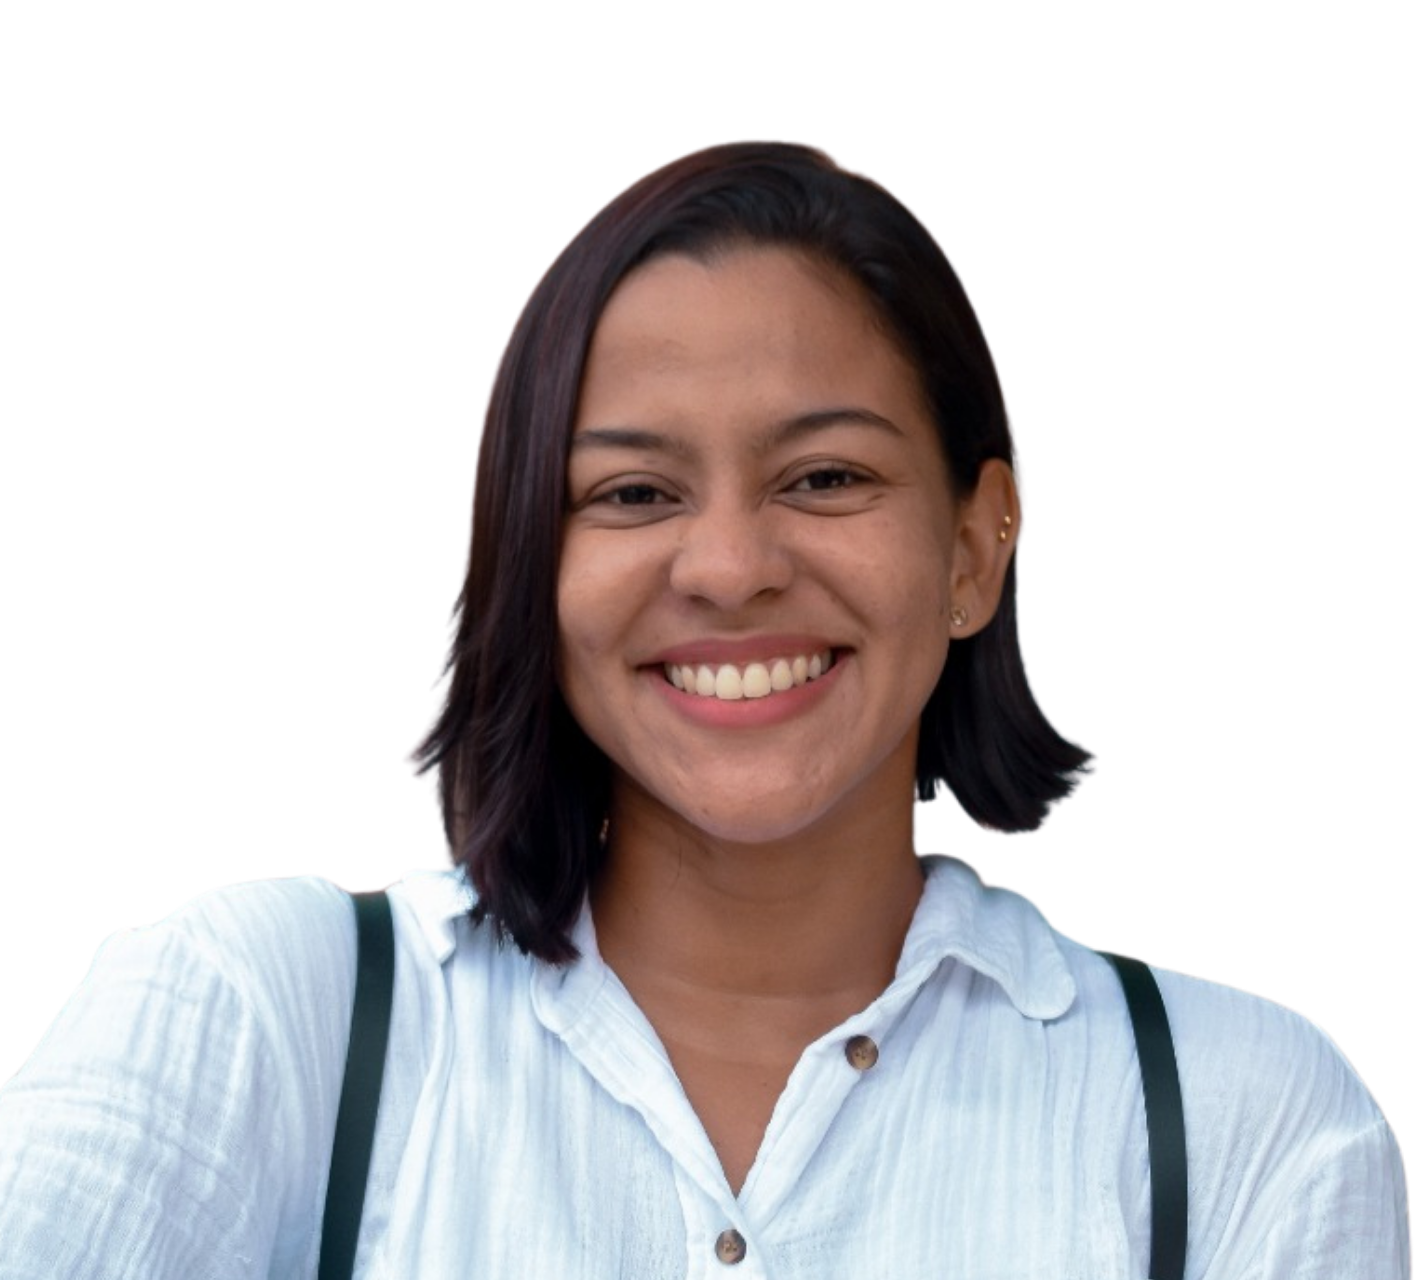
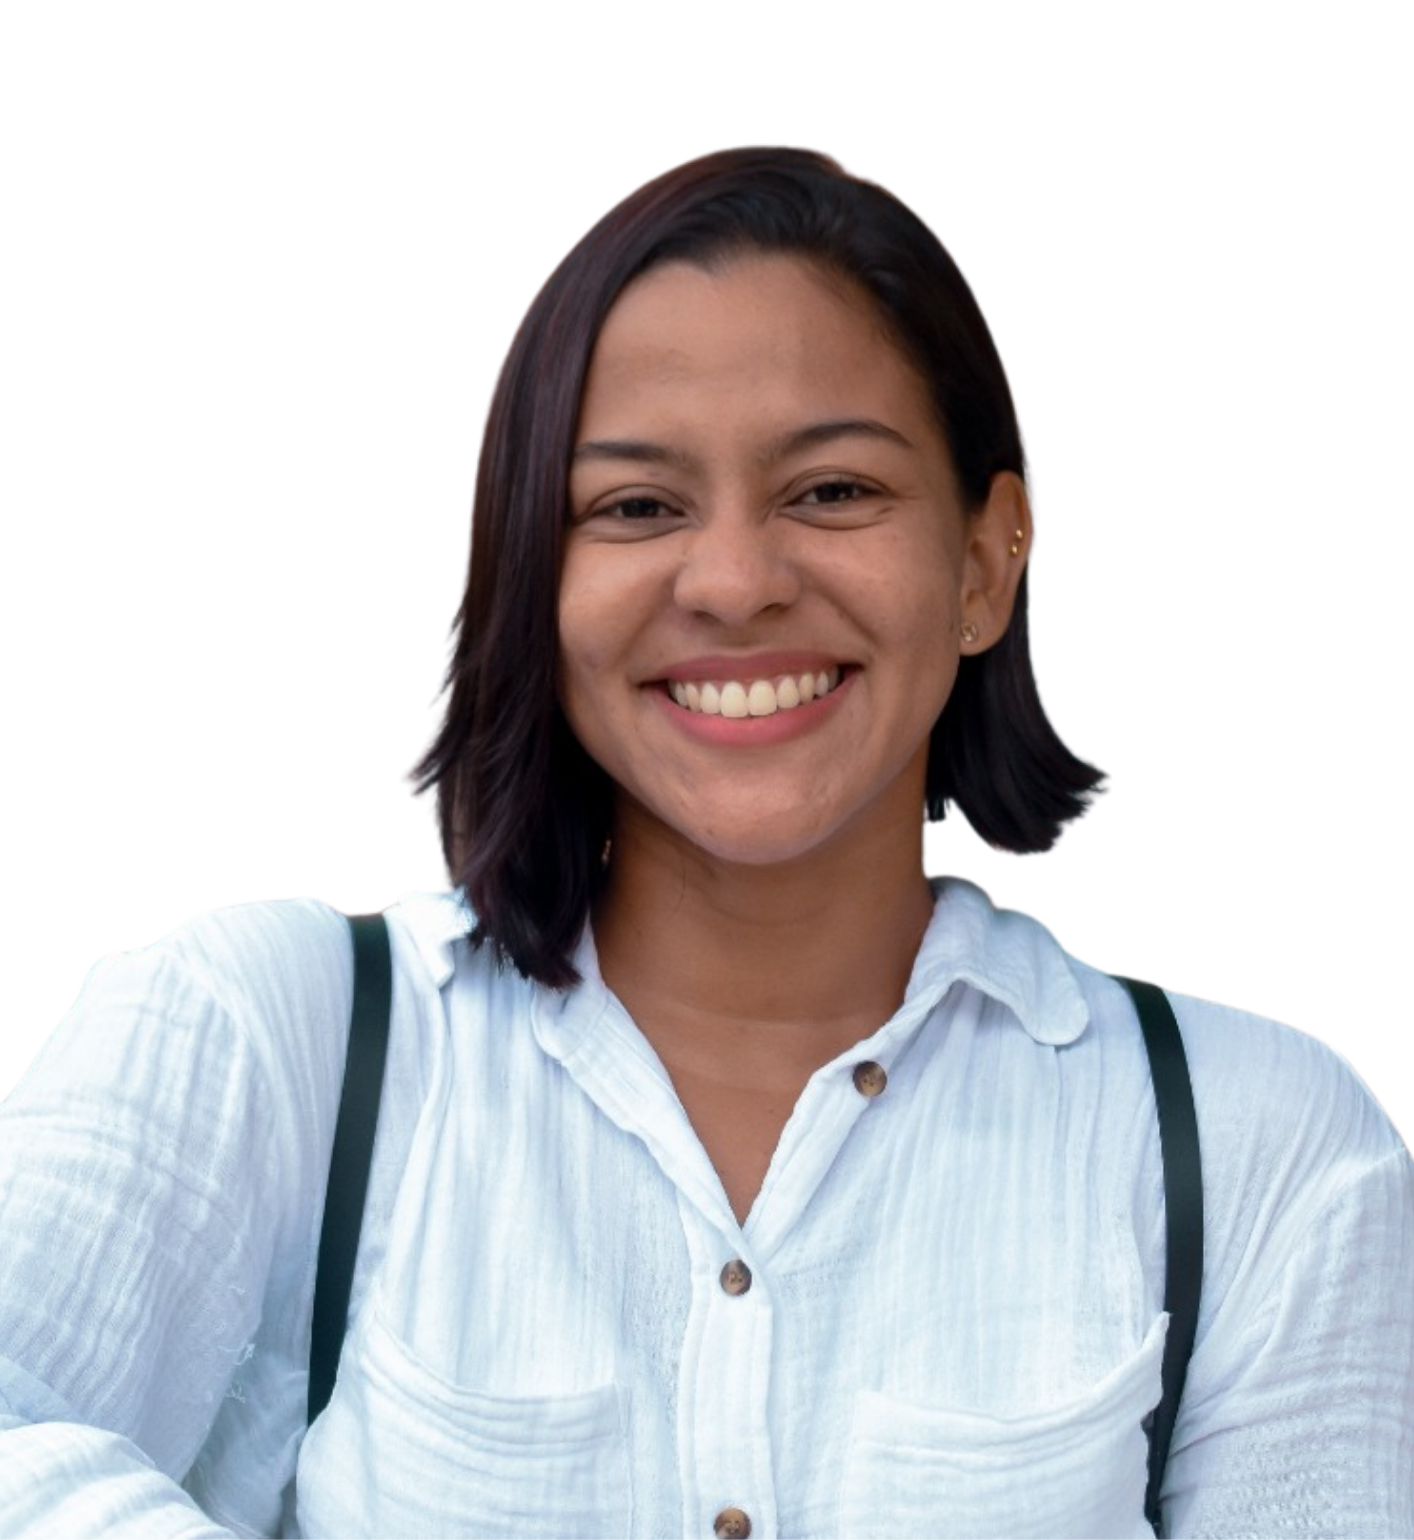
descripciones faltantes y cambio en el inicio

diff --git a/src/utils/peopleInfo.ts b/src/utils/peopleInfo.ts
@@ -27,40 +27,42 @@ export interface Person {
 	photo?: string;
 }
 
+//Leaders information
 export const leaders: Person[] = [
 	{
 		name: "Camilo Vieira",
 		role: "Director de MyE",
-		description: `Camilo Vieira es ingeniero de sistemas y cuenta con un doctorado en Computational Science and Engineering Education. Su trayectoria combina la investigación, la visualización de datos y la innovación educativa para mejorar los procesos de aprendizaje. Como líder, Camilo se distingue por su amor a la enseñanza y por su cercanía con estudiantes y colegas. Es una persona amable, colaboradora y de gran corazón.`,
+		description: `Camilo vieira es ingeniero de sistemas y cuenta con un doctorado en Computational Science and Engineering Education. Su trayectoria combina la investigación, la visualización de datos y la innovación educativa para mejorar los procesos de aprendizaje. Como líder, Camilo se distingue por su amor a la enseñanza y por su cercanía con estudiantes y colegas. Es una persona amable, colaboradora y de gran corazón.`,
 		photo: camiloVieira.src	
 	},
 	{
 		name: "Mariana Arboleda",
 		role: "Líder de datos",
-		description: `Mariana Arboleda es ingeniera de producción, magíster en Ingeniería y doctoranda en Educación. Su trayectoria combina el análisis de datos, la investigación educativa y la enseñanza, con especial interés en cómo las personas aprenden y enseñan ciencia de datos. Como líder, Mariana es atenta y amigable. Está siempre pendiente de sus actividades y guía a su equipo con compromiso, cercanía y una cálida sonrisa.`,
+		description: `Mariana Arboleda es ingeniera de producción, magíster en ingeniería y doctoranda en educación. Su trayectoria combina el análisis de datos, la investigación educativa y la enseñanza, con especial interés en cómo las personas aprenden y enseñan ciencia de datos. Como líder, Mariana es atenta y amigable. Está siempre pendiente de sus actividades y guía a su equipo con compromiso, cercanía y una cálida sonrisa`,
 		photo: marianaArboleda.src,
 	},
 	{
 		name: "Gabriela de la Rosa",
 		role: "Líder de evaluación C3",
-		description: ``,
+		description: `Gabriela de la Rosa es politóloga y magíster en Educación. Actualmente se desempeña como Lead Evaluation Analyst, donde trabaja en el monitoreo y evaluación de proyectos educativos. Su experiencia en investigación, análisis de datos, políticas públicas y cooperación internacional fortalece la evaluación rigurosa y el impacto de las iniciativas del equipo`,
 		photo: gabrielaDeLaRosa.src
 	},
 	{
 		name: "Angie padilla",
 		role: "Líder de evaluación C2",
-		description: ``,
+		description: `Angie Padilla se desempeña como Analista Líder de Evaluación en proyectos educativos como Colombia Programa y Coding Hubs Manizales. Su experiencia combina la docencia universitaria, la investigación y el análisis de datos cuantitativos y cualitativos, aportando al seguimiento riguroso y al fortalecimiento de las iniciativas del equipo`,
 		photo: angiePadilla.src
 	},
 	{
 		name: "Roxana Quintero",
 		role: "Gerente de Proyecto 2024-2025",
-		description: ``,
+		description: `Psicóloga, especialista en estadística aplicada y magíster en educación con énfasis en Cognición. Su trayectoria en investigación educativa aborda el aprendizaje de la programación, la carga cognitiva y las experiencias de estudiantes en entornos remotos. Como líder de proyectos, Roxana combinó una mirada sensible sobre las personas con el análisis riguroso de la información. Su trabajo contribuyó a comprender mejor cómo aprenden los estudiantes y a fortalecer las prácticas educativas`,
 		photo: roxanaQuintana.src
 	}
 
 ];
 
+//Members information
 export const members: Person[] = [ 
 	{ 
 		name: "Carolina Fontalvo", 
